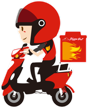
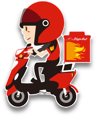
tracker 문구, css, 이미지적용

diff --git a/delivery-dispatch-mvc/src/main/resources/templates/tracker/tracker.html b/delivery-dispatch-mvc/src/main/resources/templates/tracker/tracker.html
@@ -13,7 +13,7 @@
 			<span id="tComplete" class="step4" th:text="${#messages.msg('tracker.completed')}"/>
 		</div>
 	</div>
-	<div class="progress-background" style="display: none;"><span>餐點準備中</span><br/><div id="progressbar"><div class="progress-label"></div></div></div>
+	<div class="progress-background" style="display: none;"><span>餐點準備中</span><div id="progressbar"><div class="progress-label"></div></div><br/></div>
 	<div class="visual_area">
 		<!--<div id="messageBox" style="display: none;"></div>
 		<div id="progressbar" style="display: none;"></div>-->
@@ -92,7 +92,7 @@ function setUI() {
         success : function(data) {
 //            console.log(data);
             trackerStatus = data.status;
-            if (data.reservationDatetime && trackerStatus != 2) {
+            if (data.reservationDatetime) {
                 var arriveTime = new Date(Date.parse(data.reservationDatetime));
                 var createTime = new Date(Date.parse(data.createdDatetime));
 				$('#reservedTime').text(setHourMin(arriveTime.getHours()) + ':' + setHourMin(arriveTime.getMinutes()));
@@ -109,7 +109,6 @@ function setUI() {
                 setTimeout('setUI()',checkTime-1800*1000);
             }*/
 //            console.log(checkReserveTime-3600*1000);
-            $.removeCookie('checkStep');
             if((trackerStatus == 0 || trackerStatus == 5 || trackerStatus == 1) && checkReserveTime-3600*1000<=0){//예약시간과 등록시간이 1시간이내인지 체크
                 $.cookie('checkStep','true',{expires:1});
             }
@@ -141,13 +140,35 @@ function setUI() {
                 if(checkEnter==0){
                     $(".mapCtrl").attr("id","");
                     $(".visual_area").attr("id","map");
+                    $("#map").addClass('blur');
                     initMap();
 				}
 				checkEnter = 1;
                 startEndPoint();
                 $('.progress-background').show();
 //                setTimeout('startEndPoint()',30000);
-            } else if (trackerStatus == 2) {
+            } else if (trackerStatus == 2 && !$.cookie('chkProgress')) {
+                $('.progress-background').hide();
+                $('#tNew').addClass('on line');
+                $('#tAssign').addClass('on');
+                if(checkEnter==0||checkEnter==1){
+                    $(".mapCtrl").attr("id","");
+                    $(".visual_area").attr("id","map");
+                    $("#map").addClass('blur');
+                    initMap();
+                }
+                checkEnter =1;
+                startEndPoint();
+                $('.progress-background').show();
+				var plusProgress = setInterval(function(){
+				    checkProgressValue++;
+//                    console.log(checkProgressValue);
+				    $("#progressbar").progressbar("value", checkProgressValue);
+                    if(checkProgressValue==100){
+                        clearInterval(plusProgress);
+                    }
+				    }, 100);
+ 			} else if (trackerStatus == 2 && $.cookie('chkProgress')) {
                 $('.progress-background').hide();
                 $('#tNew').addClass('on line');
                 $('#tAssign').addClass('on line');
@@ -155,6 +176,7 @@ function setUI() {
                 if(checkEnter==0||checkEnter==1){
                     $(".mapCtrl").attr("id","");
                     $(".visual_area").attr("id","map");
+                    $("#map").removeClass('blur');
                     initMap();
 				}
                 checkEnter =2;
@@ -172,6 +194,7 @@ function setUI() {
                 $(".mapCtrl").attr("id","map");
                 $(".visual_area").html('<p class="tit_wh">請享用熱騰騰<br/>的美味餐點</p>');
                 $.removeCookie('checkStep');
+                $.removeCookie('chkProgress');
             } else if(trackerStatus == 4){
                 location.href ="/error/error-tracker";
 			}
@@ -196,6 +219,11 @@ $(document).ready(function(){
         },
         complete: function() {
             $(".progress-label").text('');
+            if(!$.cookie('chkProgress')){
+                $.cookie('chkProgress','true',{expires:1});
+//                console.log($.cookie('chkProgress'));
+				setUI();
+			}
         }
     });
 
@@ -207,6 +235,7 @@ function initMap() {
     map = new google.maps.Map(document.getElementById('map'), {
         zoom: 1,
         center: new google.maps.LatLng((parseFloat(latitude)+parseFloat(storeLatitude))/2 + '', (parseFloat(longitude)+parseFloat(storeLongitude))/2 + ''),
+        mapTypeControl: false,
 		styles: [
             {
                 "featureType": "administrative",
@@ -519,7 +548,7 @@ function initMap() {
     }
 
     var bounds  = new google.maps.LatLngBounds();
-    bounds.extend(new google.maps.LatLng(parseFloat(latitude),parseFloat(longitude)));
+    bounds.extend(new google.maps.LatLng(latitude>storeLatitude?parseFloat(latitude)+0.003:parseFloat(latitude)-0.003,parseFloat(longitude)));
     bounds.extend(new google.maps.LatLng(parseFloat(storeLatitude), parseFloat(storeLongitude)));
 
 	map.fitBounds(bounds);
@@ -557,11 +586,11 @@ function startEndPoint() {
                 marker[i].setMap(null);
             }
 
-            marker[0] = new google.maps.Marker({
+            /*marker[0] = new google.maps.Marker({
                 position: new google.maps.LatLng(data.latitude, data.longitude),
                 map: map,
-                /*label:{fontWeight: "bold",
-                    text:tracker_destination},*/
+                /!*label:{fontWeight: "bold",
+                    text:tracker_destination},*!/
                 icon: {
                     url:'/resources/images/tracker/pin_home.png?ver=0.2',
                     scaledSize: new google.maps.Size(30, 40)
@@ -571,12 +600,12 @@ function startEndPoint() {
             marker[1] = new google.maps.Marker({
                 position: new google.maps.LatLng(data.storeLatitude, data.storeLongitude),
                 map: map,
-                /*label:{fontWeight: "bold", text:data.storeName},*/
+                /!*label:{fontWeight: "bold", text:data.storeName},*!/
                 icon: {
                     url:'/resources/images/tracker/pin_store.png?ver=0.2',
                     scaledSize: new google.maps.Size(35, 35)
                 }
-            });
+            });*/
 //            console.log(checkProgressValue);
             $("#progressbar").progressbar( "value", checkProgressValue>100?100:checkProgressValue);
 
@@ -701,7 +730,7 @@ function calculateAndDisplayRoute(directionsService, directionsDisplay) {
 						var contentString = '<div class="messageBox">'+
 								'<span class="bigText">'+ (Math.round(durationInTraffic)<10?'&nbsp;'+Math.round(durationInTraffic):Math.round(durationInTraffic)) + '</span>' +
 								'<div><p class="grayText">分鐘</p>'+
-								'<p class="grayText">預計抵達時間</p></div></div>';
+								'<p class="grayText">預計到達時間</p></div></div>';
 
                         var arriveTrafficTime = new Date((new Date).getTime()+route.duration_in_traffic.value*1000);
 
@@ -727,23 +756,20 @@ function calculateAndDisplayRoute(directionsService, directionsDisplay) {
                                 scaledSize: new google.maps.Size(35, 35)
                             }
                         });
-                        if(data.distance > 0.1){
-                            if(!marker[2]){
-                                marker[2] = new  SlidingMarker({
-                                    position: route.start_location,
-                                    map: map,
-                                    icon: {
-                                        url: data.longitude>data.riderLongitude?'/resources/images/tracker/pin_moto_right.png?ver=0.2':'/resources/images/tracker/pin_moto_left.png?ver=0.2',
-                                        scaledSize: new google.maps.Size(40, 49)
-                                    },
-                                    duration: 30000,
-                                    easing: "easeOutExpo"
+                        if(!marker[2]){
+                            marker[2] = new  SlidingMarker({
+                                position: data.distance>0.05?route.start_location:new google.maps.LatLng(route.start_location.lat(), route.start_location.lng()+0.002),
+                                map: map,
+								icon: {
+                                    url: data.longitude>data.riderLongitude?'/resources/images/tracker/pin_moto_right.png?ver=0.2':'/resources/images/tracker/pin_moto_left.png?ver=0.2',
+									scaledSize: new google.maps.Size(40, 49)
+								},
+								duration: 30000,
+								easing: "easeOutExpo"
                                 });
-                            }else {
-                                marker[2].setPosition(route.start_location);
-                            }
-						}
-
+                        	}else {
+                            marker[2].setPosition(route.start_location);
+                        }
                         /*if(data.distance > 0.1){
                             marker[2] = new google.maps.Marker({
                                 position: route.start_location,
@@ -764,7 +790,7 @@ function calculateAndDisplayRoute(directionsService, directionsDisplay) {
 
                             this.div_ = div;
                             var panes = this.getPanes();
-                            panes.floatPane.appendChild(div);
+                            panes.overlayLayer.appendChild(div);
                         }
                         myOverlay.prototype.draw = function () {
                             var overlayProjection = this.getProjection();
@@ -773,8 +799,8 @@ function calculateAndDisplayRoute(directionsService, directionsDisplay) {
 
                             var div = this.div_;
 
-                            div.style.left = data.longitude>data.storeLongitude?ne.x - 151 + 'px':ne.x + 11+ 'px';
-                            div.style.top = data.latitude>data.storeLatitude?ne.y - 25 + 'px':ne.y - 80 + 'px';
+                            div.style.left = data.longitude>data.storeLongitude?ne.x - 160 + 'px':ne.x + 16+ 'px';
+                            div.style.top = data.latitude<data.storeLatitude?ne.y - 25 + 'px':ne.y - 80 + 'px';
                         }
                         overlay = new myOverlay(marker[0],contentString,map);
 

diff --git a/delivery-dispatch-mvc/src/main/resources/css/tracker/style.css b/delivery-dispatch-mvc/src/main/resources/css/tracker/style.css
@@ -24,10 +24,10 @@ th {font-weight:normal;}
 .tracker-top .state i:before{content: '';display:block;position:absolute;left:-100%;right:-100%;top:0;height:100%;background:#403d3a;}
 .tracker-top .state span{display:inline-block;vertical-align:top;width:60px; opacity:0.5;position:relative;}
 .tracker-top .state span + i{opacity:0.5}
-.tracker-top .state span:before {content:"";display:block;width:32px; height:32px; background:url('../../images/tracker/ico_step1.png?ver=0.2') 0 0 no-repeat;background-size:cover;margin:0 auto 6px;}
-.tracker-top .state span.step2:before {background-image:url('../../images/tracker/ico_step2.png?ver=0.2');}
-.tracker-top .state span.step3:before {background-image:url('../../images/tracker/ico_step3.png?ver=0.2');}
-.tracker-top .state span.step4:before {background-image:url('../../images/tracker/ico_step4.png?ver=0.2');}
+.tracker-top .state span:before {content:"";display:block;width:32px; height:32px; background:url('../../images/tracker/ico_step1.png?ver=0.3') 0 0 no-repeat;background-size:cover;margin:0 auto 6px;}
+.tracker-top .state span.step2:before {background-image:url('../../images/tracker/ico_step2.png?ver=0.3');}
+.tracker-top .state span.step3:before {background-image:url('../../images/tracker/ico_step3.png?ver=0.3');}
+.tracker-top .state span.step4:before {background-image:url('../../images/tracker/ico_step4.png?ver=0.3');}
 .tracker-top .state span.on,
 .tracker-top .state span.line + i {opacity:1}
 .tracker-top .state span.on:after{content:"";display:block; background:url('../../images/tracker/ico_chk.png?ver=0.3') 0 0 no-repeat; background-size:15px 15px; width:15px;height:15px; position:absolute;top:0;right:6px;}
@@ -37,12 +37,12 @@ th {font-weight:normal;}
 .tracker-bottom tr:first-child td,
 .tracker-bottom tr:first-child th {border-bottom:1px solid #d8d8d8}
 .tracker-bottom td ,.tracker-bottom th{/*word-break:break-all;*/padding:12px 5px;}
-.visual_area {position:relative;height:300px;background:url('../../images/tracker/visual_img.jpg?ver=0.2') center center no-repeat;background-size:cover;}
+.visual_area {position:relative;height:300px;background:url('../../images/tracker/visual_img.jpg?ver=0.3') center center no-repeat;background-size:cover;}
 .map_info img{vertical-align:middle;margin-right:3px;}
 .map_info span{margin:0 3px;vertical-align: middle;}
-.loading {position:absolute;top:50%;left:50%;margin-left:-50px; margin-top:-50px;background:url('../../images/tracker/loading.gif?ver=0.2') 0 0 no-repeat;width:100px; height:100px; background-size:cover;}
-.gps_loading {position:absolute;top:50%;left:50%;margin-left:-50px; margin-top:-50px;background:url('../../images/tracker/gps.gif?ver=0.2') 0 0 no-repeat;width:100px; height:100px; background-size:cover;}
-.messageBox {position:absolute; font-size:20px; opacity: 0.8; background: #FFFFFF;overflow:hidden; padding:7px; width:130px;}
+.loading {position:absolute;top:50%;left:50%;margin-left:-50px; margin-top:-50px;background:url('../../images/tracker/loading.gif?ver=0.3') 0 0 no-repeat;width:100px; height:100px; background-size:cover;}
+.gps_loading {position:absolute;top:50%;left:50%;margin-left:-50px; margin-top:-50px;background:url('../../images/tracker/gps.gif?ver=0.3') 0 0 no-repeat;width:100px; height:100px; background-size:cover;}
+.messageBox {position:absolute; font-size:20px; background: #FFFFFF;overflow:hidden; padding:7px; width:130px;box-shadow:3px 3px 10px #7d7d7d;}
 .op100 {opacity: 1 !important; margin:0 auto;}
 .messageBox div {padding-left:28px;text-align: center;}
 .bigText {font-size:34px; float:left; color:#000;}
@@ -50,7 +50,7 @@ th {font-weight:normal;}
 .sidePadding {padding:5px 15px;}
 .f22 {font-size:22px; line-height: 0%;}
 
-.tracker .ui-progressbar {  width:130px;  height: 20px;  margin:0 auto;  border: 2px solid #000;border-radius: 10px;background:#fff;position:relative;  }
+.tracker .ui-progressbar {  width:200px;  height: 3px;  margin:0 auto;  /*border: 2px solid #000;*/border-radius: 10px;background:#fff;position:relative;  }
 
 .tracker .ui-widget-header {
     background: #ffa7a5; /* Old browsers */
@@ -58,7 +58,7 @@ th {font-weight:normal;}
     background: -webkit-linear-gradient(top, #ffa7a5 0%,#fc2820 100%); /* Chrome10-25,Safari5.1-6 */
     background: linear-gradient(to bottom, #ffa7a5 0%,#fc2820 100%); /* W3C, IE10+, FF16+, Chrome26+, Opera12+, Safari7+ */
     filter: progid:DXImageTransform.Microsoft.gradient( startColorstr='#ffa7a5', endColorstr='#fc2820',GradientType=0 ); /* IE6-9 */;height: 100%;position:relative;border-radius: 10px 0 0 10px;}
-.tracker .ui-widget-header:after {content:"";display:block;width:34px; height:34px;background:url('../../images/tracker/flame.gif') 0 0 no-repeat;background-size:cover;position:absolute;bottom:0;right:-17px;}
+.tracker .ui-widget-header:after {content:"";display:block;width:30px; height:30px;background:url('../../images/tracker/flame.gif?ver=0.3') 0 0 no-repeat;background-size:cover;position:absolute;bottom:0;right:-17px;}
 /*.tracker .progress-label {
     position: absolute;
     left: 50%;
@@ -75,13 +75,14 @@ th {font-weight:normal;}
 .tracker .progress-background {
     text-align: center;
     color: #FFF;
-    font-size: 24px;
+    font-size: 15px;
     position: absolute;
     background-position: left top;
     width: 100%;
     height: 300px;
     z-index: 2;
 }
-.progress-background:before {content:"";display:block; width:100%;  height:300px;  background-color: #000;opacity: 0.5;position:absolute;display:block;top:0;}
-.progress-background:after {content:"";display:block;width:120px;height:120px;background:url('../../images/tracker/pizza-2.png')0 0 no-repeat;    margin: 10px auto;  background-size: cover;  z-index: 10;  position: relative; }
-.progress-background span {z-index: 10;position:relative;padding-top:60px;display:inline-block;font-size:20px;padding-bottom:10px }
+.progress-background:before {content:"";display:block; width:100%; height:300px; background-color: #000;opacity: 0.5;position:absolute;display:block;top:0;}
+.progress-background:after {content:"";display:block;width:180px;height:180px;background:url('../../images/tracker/pizza-2.png?ver=0.3')0 0 no-repeat; margin: 8px auto; background-size: cover; z-index: 10;  position: relative; }
+.progress-background span {z-index: 10;position:relative;padding-top:20px;display:inline-block;font-size:22px;padding-bottom:26px }
+.blur {filter:blur(2px);}

diff --git a/delivery-dispatch-mvc/src/main/java/kr/co/deliverydispatch/controller/TrackerController.java b/delivery-dispatch-mvc/src/main/java/kr/co/deliverydispatch/controller/TrackerController.java
@@ -44,7 +44,7 @@ public class TrackerController {
     public String tracker(Model model) {
         // String param = "token=eyJhbGciOiJIUzI1NiJ9.eyJzdWIiOiJ0d190cmFja2VyIiwiYXVkaWVuY2UiOiJ3ZWIiLCJjcmVhdGVkIjoxNTIxNjAwMjIxMzc5fQ.fQYha8zo4g8i2xDhF6wpDYqawl-BQF-RcTQZ8vCl3iA&level=4&code=016&regOrderId=15";
 
-        String param = "{\"level\":\"4\",\"token\":\"eyJhbGciOiJIUzI1NiJ9.eyJzdWIiOiJ0d190cmFja2VyIiwiYXVkaWVuY2UiOiJ3ZWIiLCJjcmVhdGVkIjoxNTIxNjAwMjIxMzc5fQ.fQYha8zo4g8i2xDhF6wpDYqawl-BQF-RcTQZ8vCl3iA\",\"code\":\"103\",\"webOrderId\":\"s-20180612-cnt-aa1\",\"reqDate\":\"20180612104000\"}";
+        String param = "{\"level\":\"4\",\"token\":\"eyJhbGciOiJIUzI1NiJ9.eyJzdWIiOiJ0d190cmFja2VyIiwiYXVkaWVuY2UiOiJ3ZWIiLCJjcmVhdGVkIjoxNTIxNjAwMjIxMzc5fQ.fQYha8zo4g8i2xDhF6wpDYqawl-BQF-RcTQZ8vCl3iA\",\"code\":\"103\",\"webOrderId\":\"s-20180615-cnt-aa3\",\"reqDate\":\"20180615154000\"}";
 
         try {
             String encKey = tKey;
